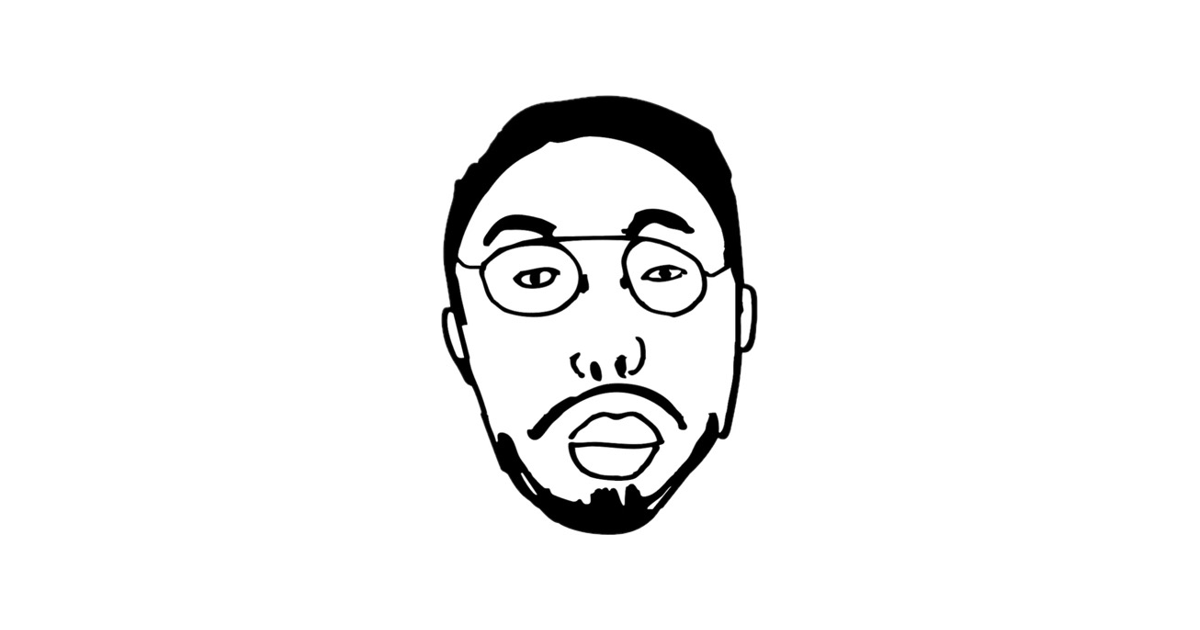
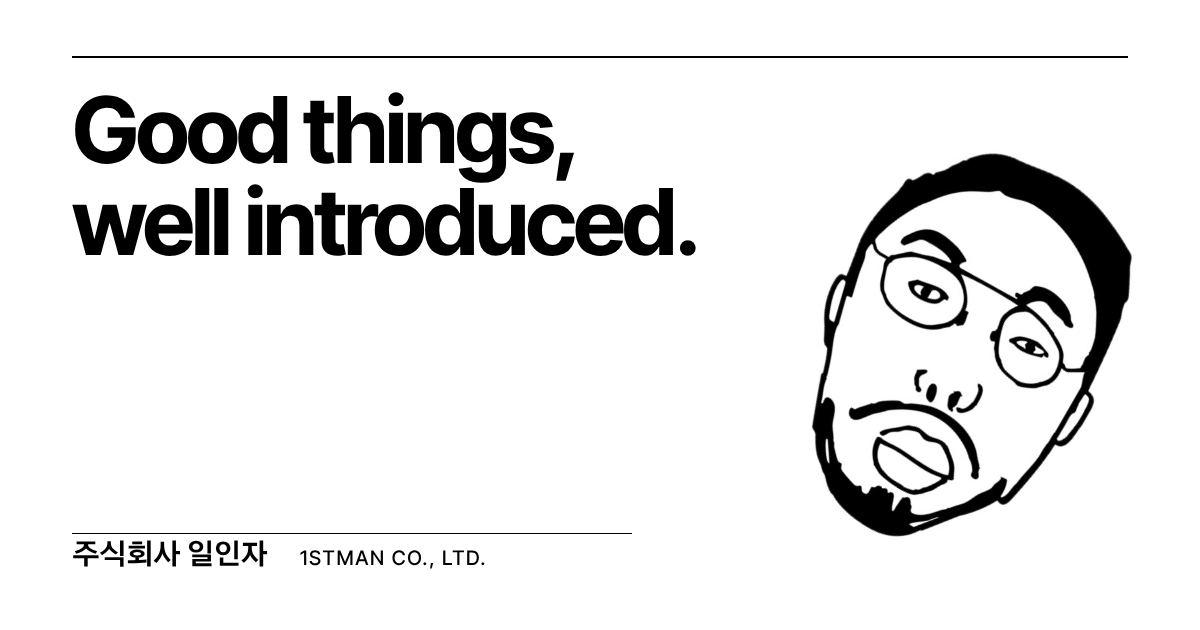
Link preview: Korean title, slogan + tilted face image
Claude-Session: https://claude.ai/code/session_01Ugy7eNxLhXQX9V2rZ3WeVd

Changed region(s): [[0.0617, 0.1508, 0.6475, 0.8746], [0.6783, 0.2413, 0.9558, 0.8746], [0.0617, 0.8444, 0.4008, 0.9048]]

diff --git a/index.html b/index.html
@@ -3,12 +3,22 @@
 <head>
 <meta charset="utf-8">
 <meta name="viewport" content="width=device-width, initial-scale=1">
-<title>주식회사 일인자 — 1STMAN</title>
-<meta name="description" content="1STMAN CO., LTD. — Good things, well introduced.">
-<meta property="og:title" content="주식회사 일인자 — 1STMAN">
+<title>주식회사 일인자</title>
+<meta name="description" content="Good things, well introduced.">
+<meta property="og:type" content="website">
+<meta property="og:site_name" content="주식회사 일인자">
+<meta property="og:locale" content="ko_KR">
+<meta property="og:title" content="주식회사 일인자">
 <meta property="og:description" content="Good things, well introduced.">
-<meta property="og:image" content="https://1stman.kr/og.png">
 <meta property="og:url" content="https://1stman.kr/">
+<meta property="og:image" content="https://1stman.kr/og.png?v=2">
+<meta property="og:image:width" content="1200">
+<meta property="og:image:height" content="630">
+<meta property="og:image:alt" content="Good things, well introduced. — 주식회사 일인자">
+<meta name="twitter:card" content="summary_large_image">
+<meta name="twitter:title" content="주식회사 일인자">
+<meta name="twitter:description" content="Good things, well introduced.">
+<meta name="twitter:image" content="https://1stman.kr/og.png?v=2">
 <link rel="icon" href="favicon.png" type="image/png">
 <link rel="preconnect" href="https://fonts.googleapis.com">
 <link rel="preconnect" href="https://fonts.gstatic.com" crossorigin>
